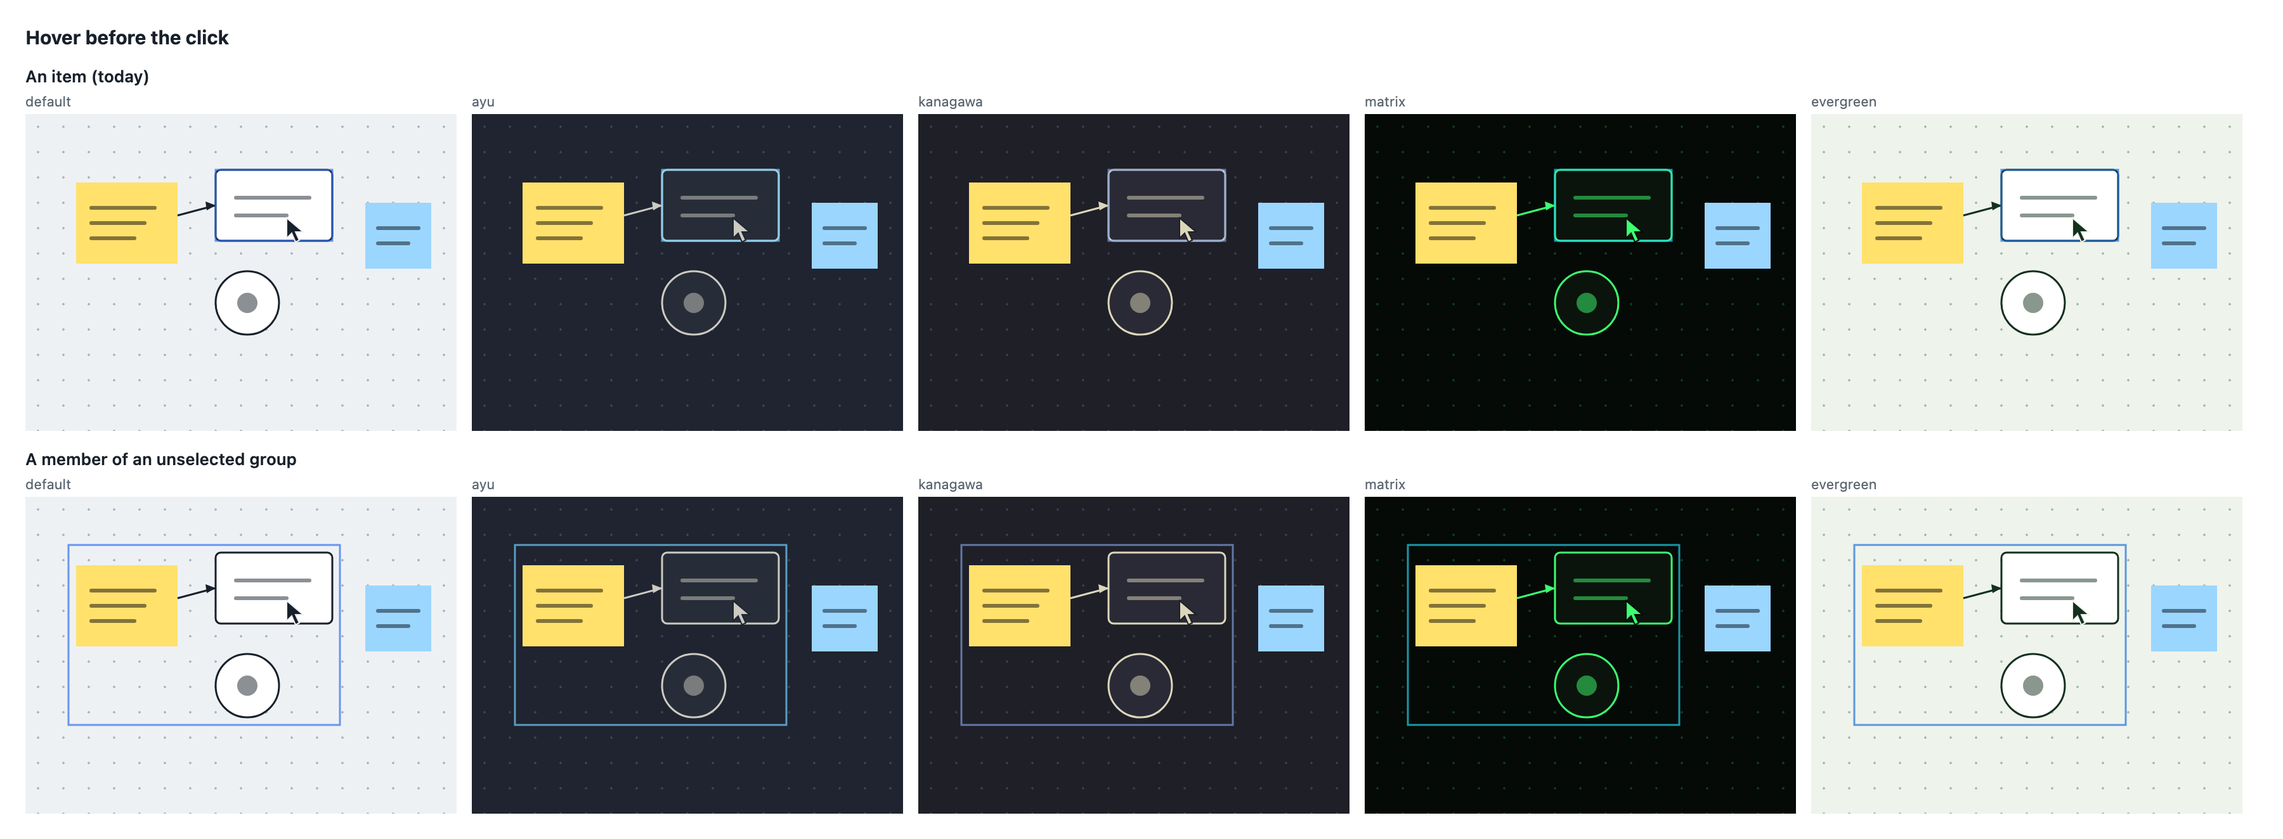
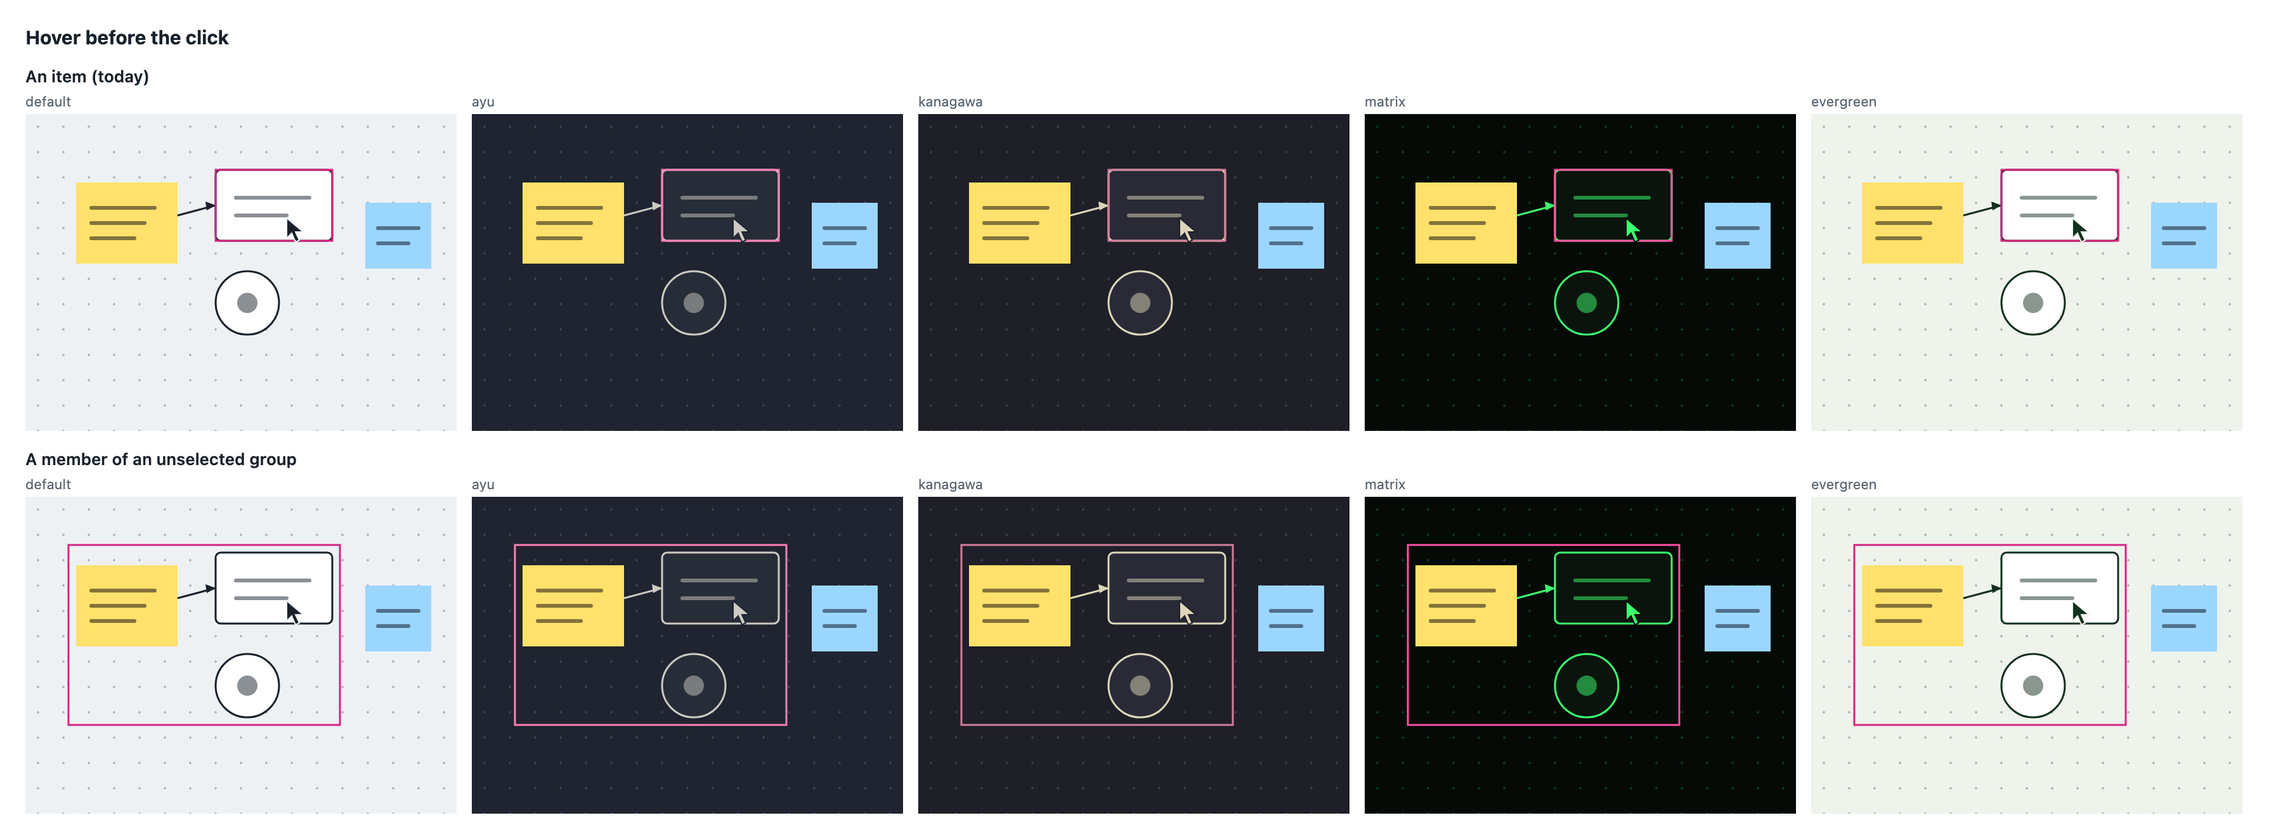
Fix group contrast and dot-vote double-click

diff --git a/test/groups-app.test.ts b/test/groups-app.test.ts
@@ -36,7 +36,7 @@ afterEach(() => browser.uninstall());
 function harness(store = new Store(new Y.Doc())) {
   const app = Object.create(BoardApp.prototype) as Harness;
   const hit = vi.fn<(...args: unknown[]) => Obj | undefined>(() => store.get('a'));
-  const flow = { handleClick: vi.fn<(o: Obj) => boolean>((_o) => false), isHidden: () => false, isVoting: () => false, activeStep: () => null };
+  const flow = { handleClick: vi.fn<(o: Obj) => boolean>((_o) => false), isHidden: () => false, isVoting: vi.fn<() => boolean>(() => false), activeStep: () => null };
   const svg = browser.document.createElement('svg') as FakeElement & { setPointerCapture: (id: number) => void };
   svg.setPointerCapture = vi.fn<(id: number) => void>();
   const overlay = { anchorsFor: null, selection: [], enteredGroup: null, kanban: null };
@@ -130,6 +130,24 @@ describe('group app commands and scope', () => {
     expect(app.selection).toEqual(['g']);
   });
 
+  it('leaves only the current group when empty canvas is clicked from a nested scope', () => {
+    const store = new Store(new Y.Doc());
+    store.transact(() => {
+      store.create({ id: 'outer', type: 'group', x: 0, y: 0, w: 0, h: 0, rotation: 0, z: 'a1' });
+      store.create({ id: 'inner', type: 'group', x: 0, y: 0, w: 0, h: 0, rotation: 0, z: 'a2', parent: 'outer' });
+      store.create({ ...note('leaf', 'a1', 10), parent: 'inner' });
+    });
+    const { app, hit } = harness(store);
+    app.enterGroup('outer');
+    app.enterGroup('inner');
+    hit.mockReturnValue(undefined);
+    const emptyClick = { clientX: 400, clientY: 400, pointerId: 2, pointerType: 'mouse', button: 0, shiftKey: false, altKey: false, preventDefault() {} };
+    call(app, 'onDown', emptyClick);
+    call(app, 'onUp', emptyClick);
+    expect(app.scope).toBe('outer');
+    expect(app.selection).toEqual(['inner']);
+  });
+
   it('keeps dot-vote clicks on the hit member rather than lifting them to its group', () => {
     const store = new Store(new Y.Doc());
     store.transact(() => group('g', 'a1', ['a', 'b']).forEach((o) => store.create(o)));
@@ -139,6 +157,37 @@ describe('group app commands and scope', () => {
     call(app, 'onDown', { clientX: 10, clientY: 10, pointerId: 1, pointerType: 'mouse', button: 0, shiftKey: false, altKey: false, preventDefault() {} });
     expect(flow.handleClick.mock.calls[0][0]?.id).toBe('a');
     expect(app.selection).toEqual([]);
+  });
+
+  it('does not enter a group on the double-click event after vote clicks', () => {
+    const store = new Store(new Y.Doc());
+    store.transact(() => group('g', 'a1', ['a', 'b']).forEach((o) => store.create(o)));
+    const { app, hit, flow } = harness(store);
+    hit.mockImplementation(() => store.get('a'));
+    flow.isVoting.mockReturnValue(true);
+    flow.handleClick.mockReturnValue(true);
+    const click = { clientX: 10, clientY: 10, pointerId: 1, pointerType: 'mouse', button: 0, shiftKey: false, altKey: false, preventDefault() {} };
+    call(app, 'onDown', click);
+    call(app, 'onDown', click);
+    call(app, 'onDblClick', { clientX: 10, clientY: 10 });
+    expect(flow.handleClick).toHaveBeenCalledTimes(2);
+    expect(flow.handleClick.mock.calls.map(([o]) => o.id)).toEqual(['a', 'a']);
+    expect(app.scope).toBeNull();
+    expect(app.selection).toEqual([]);
+  });
+
+  it('disables ungroup when a non-group is included in the selection', () => {
+    const store = new Store(new Y.Doc());
+    store.transact(() => {
+      group('g', 'a1', ['a', 'b']).forEach((o) => store.create(o));
+      store.create(note('loose', 'a9', 240));
+    });
+    const { app } = harness(store);
+    app.selection = ['g', 'loose'];
+    const before = objects(store);
+    expect(app.canUngroupSelection()).toBe(false);
+    expect(app.ungroupSelection()).toBe(false);
+    expect(objects(store)).toEqual(before);
   });
 
   it('leaves to the nearest parent scope when selecting a sibling outside the entered group', () => {

diff --git a/test/css-colors.test.ts b/test/css-colors.test.ts
@@ -2,6 +2,7 @@ import { readFileSync, readdirSync } from 'node:fs';
 import { join, relative } from 'node:path';
 import { fileURLToPath } from 'node:url';
 import { describe, expect, it } from 'vitest';
+import { THEMES, type Theme } from '../src/themes';
 
 const ROOT = fileURLToPath(new URL('..', import.meta.url));
 
@@ -60,10 +61,65 @@ function scan(file: string): string[] {
   return violations;
 }
 
+type RGB = [number, number, number];
+
+function hexRgb(value: string): RGB {
+  const match = /^#([\da-f]{6})$/i.exec(value);
+  if (!match) throw new Error(`expected a six-digit theme colour, got ${value}`);
+  return [0, 2, 4].map((offset) => Number.parseInt(match[1].slice(offset, offset + 2), 16)) as RGB;
+}
+
+function resolveThemeToken(value: string, theme: Theme): RGB {
+  const match = /^var\((--[\w-]+)\)$/.exec(value);
+  if (!match) throw new Error(`expected a theme variable for a group outline, got ${value}`);
+  return hexRgb(theme.vars[match[1] as keyof Theme['vars']]);
+}
+
+function luminance(rgb: RGB): number {
+  const linear = rgb.map((channel) => {
+    const value = channel / 255;
+    return value <= 0.04045 ? value / 12.92 : ((value + 0.055) / 1.055) ** 2.4;
+  });
+  return 0.2126 * linear[0] + 0.7152 * linear[1] + 0.0722 * linear[2];
+}
+
+function contrastRatio(a: RGB, b: RGB): number {
+  const [lighter, darker] = [luminance(a), luminance(b)].sort((x, y) => y - x);
+  return (lighter + 0.05) / (darker + 0.05);
+}
+
+function colorDistance(a: RGB, b: RGB): number {
+  return Math.hypot(...a.map((channel, i) => channel - b[i]));
+}
+
+function rootToken(name: string): string {
+  const css = stripComments(readFileSync(join(ROOT, 'src/ui/group-ui.css'), 'utf8'));
+  const root = css.match(/:root\s*\{([^}]+)\}/)?.[1];
+  const value = root?.match(new RegExp(`(?:^|\\n)\\s*${name}:\\s*([^;]+);`))?.[1]?.trim();
+  if (!value) throw new Error(`missing ${name} in group UI theme tokens`);
+  return value;
+}
+
 describe('css colours', () => {
   it('uses theme variables instead of literal colours outside the allowlist', () => {
     const files = cssFiles(join(ROOT, 'src'));
     expect(files.length).toBeGreaterThan(0);
     expect(files.flatMap(scan)).toEqual([]);
+  });
+
+  it('keeps group hover and member outlines high-contrast across every theme', () => {
+    const hoverToken = rootToken('--group-hover');
+    const memberToken = rootToken('--group-member-line');
+    for (const theme of THEMES) {
+      const canvas = hexRgb(theme.vars['--canvas']);
+      const paper = hexRgb(theme.vars['--paper']);
+      const wire = hexRgb(theme.vars['--wire']);
+      const hover = resolveThemeToken(hoverToken, theme);
+      const member = resolveThemeToken(memberToken, theme);
+      expect(contrastRatio(hover, canvas), `${theme.id} group hover`).toBeGreaterThanOrEqual(3);
+      expect(contrastRatio(member, canvas), `${theme.id} group members`).toBeGreaterThanOrEqual(3);
+      expect(contrastRatio(member, paper), `${theme.id} group members on paper`).toBeGreaterThanOrEqual(3);
+      expect(colorDistance(hover, wire), `${theme.id} hover differs from selection`).toBeGreaterThan(50);
+    }
   });
 });

diff --git a/src/render.ts b/src/render.ts
@@ -676,7 +676,7 @@ export class Renderer {
       if (o?.type === 'group') {
         const b = this.bounds(o);
         if (b) out += this.groupOutline(b, px, 'var(--group-hover)', 1.5);
-      } else if (o) out += this.outline(o, px(1.5), 0.6);
+      } else if (o) out += this.outline(o, px(1.5), 1, 'var(--group-hover)');
     }
     if (ov.lockedHover) {
       const candidate = get(ov.lockedHover);
@@ -876,21 +876,21 @@ export class Renderer {
       });
       if (hiddenEnd) return '';
       const g = connectorGeom(this.safeGet, safeObj(raw), this.connectorLayout());
-      return g ? `<path d="${g.d}" fill="none" stroke="var(--group-line-soft)" stroke-width="${px(1)}" pointer-events="none"/>` : '';
+      return g ? `<path d="${g.d}" fill="none" stroke="var(--group-member-line)" stroke-width="${px(1)}" pointer-events="none"/>` : '';
     }
     if (isBox(raw) && this.isHidden(raw)) return '';
     if (raw.type === 'group') {
       const b = this.bounds(raw);
-      return b ? `<rect x="${b.x}" y="${b.y}" width="${b.w}" height="${b.h}" fill="none" stroke="var(--group-line-soft)" stroke-width="${px(1)}" pointer-events="none"/>` : '';
+      return b ? `<rect x="${b.x}" y="${b.y}" width="${b.w}" height="${b.h}" fill="none" stroke="var(--group-member-line)" stroke-width="${px(1)}" pointer-events="none"/>` : '';
     }
     const o = safeObj(this.store.placed(raw));
     const c = center(o);
     const deg = ((o.rotation || 0) * 180) / Math.PI;
     if (o.type === 'path') {
       const b = boxBounds(o);
-      return `<rect x="${b.x}" y="${b.y}" width="${b.w}" height="${b.h}" fill="none" stroke="var(--group-line-soft)" stroke-width="${px(1)}" pointer-events="none"/>`;
+      return `<rect x="${b.x}" y="${b.y}" width="${b.w}" height="${b.h}" fill="none" stroke="var(--group-member-line)" stroke-width="${px(1)}" pointer-events="none"/>`;
     }
-    return `<rect x="${o.x}" y="${o.y}" width="${o.w}" height="${o.h}" transform="rotate(${deg} ${c.x} ${c.y})" fill="none" stroke="var(--group-line-soft)" stroke-width="${px(1)}" pointer-events="none"/>`;
+    return `<rect x="${o.x}" y="${o.y}" width="${o.w}" height="${o.h}" transform="rotate(${deg} ${c.x} ${c.y})" fill="none" stroke="var(--group-member-line)" stroke-width="${px(1)}" pointer-events="none"/>`;
   }
 
   private lockBadge(b: Rect, px: (v: number) => number, padded: boolean) {

diff --git a/test/group-render-visual.test.ts b/test/group-render-visual.test.ts
@@ -63,7 +63,7 @@ describe('group renderer overlays', () => {
     renderer.setOverlay({ selection: ['g'] });
     drawOverlay();
     const out = svg();
-    expect(out).toContain('stroke="var(--group-line-soft)"');
+    expect(out).toContain('stroke="var(--group-member-line)"');
     expect(out).toContain('stroke="var(--group-line)"');
     expect(out).toContain('stroke-width="1.5"');
     expect(out).not.toContain('#');
@@ -83,6 +83,13 @@ describe('group renderer overlays', () => {
     expect(dimPath().getAttribute('fill')).toBe('var(--group-dim)');
     expect(dimPath().getAttribute('class')).toBe('group-dim-wash active');
     expect(`${svg()}${dimPath().getAttribute('fill')}`).not.toContain('#');
+  });
+
+  it('uses the same theme-aware hover color for a single item', () => {
+    renderer.setOverlay({ hover: 'a' });
+    drawOverlay();
+    expect(svg()).toContain('stroke="var(--group-hover)"');
+    expect(svg()).not.toContain('#');
   });
 
   it('lifts a lock hover to the outermost locked group and uses the tray badge tokens', () => {

diff --git a/src/app.ts b/src/app.ts
@@ -2127,6 +2127,8 @@ export class BoardApp {
   }
 
   private onDblClick(e: MouseEvent) {
+    // During a dot vote, the two pointer clicks already cast votes; double-click must not also enter a group or edit.
+    if (this.flow.isVoting()) return;
     const p = this.worldOf(e);
     // a double click on a pin must not edit the object underneath or add a text box
     if ((this.tool.kind === 'select' || this.tool.kind === 'comment') && pinAt(this.r.pins, p, this.zoom)) return;

diff --git a/src/ui/group-ui.css b/src/ui/group-ui.css
@@ -1,7 +1,7 @@
 :root {
   --group-line: var(--wire);
-  --group-line-soft: color-mix(in srgb, var(--wire) 45%, transparent);
-  --group-hover: color-mix(in srgb, var(--wire) 70%, transparent);
+  --group-member-line: var(--graphite);
+  --group-hover: var(--guide);
   --group-handle: var(--paper);
   --group-dim: color-mix(in srgb, var(--canvas) 62%, transparent);
   --group-locked: var(--graphite);

diff --git a/docs/groups-visual.md b/docs/groups-visual.md
@@ -19,8 +19,8 @@ Defined once, on the board's root (`.chrome` or `:root`, wherever `--guide` is r
 ```css
 :root {
   --group-line:       var(--wire);                                       /* selected outline, handles' stroke, entered dashes */
-  --group-line-soft:  color-mix(in srgb, var(--wire) 45%, transparent);  /* the members' own outlines inside a selected group */
-  --group-hover:      color-mix(in srgb, var(--wire) 70%, transparent);  /* hover outline of what a click would select */
+  --group-member-line: var(--graphite);                                  /* high-contrast member outlines inside a selected group */
+  --group-hover:      var(--guide);                                      /* hover outline, distinct from the selected wire outline */
   --group-handle:     var(--paper);                                      /* handle fill (today a literal #fff) */
   --group-dim:        color-mix(in srgb, var(--canvas) 62%, transparent);/* the board outside an entered group */
   --group-locked:     var(--graphite);                                   /* hover outline of a locked group */
@@ -30,9 +30,9 @@ Defined once, on the board's root (`.chrome` or `:root`, wherever `--guide` is r
 }
 ```
 
-Contrast of the lines against each theme's canvas (non-text UI needs 3:1; WCAG 1.4.11): `--wire` default 4.0, ayu 9.0, kanagawa 5.9, matrix 11.0, evergreen 4.3; `--graphite` 5.2, 5.2, 6.7, 6.4, 5.2. The chips use the tray pair (10.5 to 15.4:1). The soft member outline (45%) is decoration, not information, and is not held to 3:1.
+Contrast of the group lines against each theme's canvas (non-text UI needs 3:1; WCAG 1.4.11): `--wire` is 4.0 in default, 9.0 in ayu, 5.9 in kanagawa, 11.0 in matrix, and 4.3 in evergreen; `--graphite` is 5.2, 5.2, 6.7, 6.4, and 5.2; `--guide` is 4.2, 6.6, 5.6, 6.6, and 4.2. Member outlines use `--graphite` and group hover uses `--guide`, so both clear 3:1 and hover remains distinct from selection. The chips use the tray pair (10.5 to 15.4:1).
 
-**Not in slice 2: the single-item selection.** `render.ts` draws every selection, handle and hover with the constant `WIRE = '#2F6FED'` and white handles, in every theme. `--wire` is defined in all five themes and equals `#2F6FED` in default, so the group overlay reads `var(--wire)` and `var(--group-handle)` and looks the same as a single item there; in Ayu, Kanagawa, Matrix and Evergreen it follows the theme while single items keep the old blue until the follow-up below. That interim difference is accepted: copying the constant into the group tokens would bake the Matrix problem (a fixed blue on a green board) into the new feature.
+**Not in slice 2: the single-item selection.** `render.ts` still draws a single item's selection outline and handles with the constant `WIRE = '#2F6FED'` and white handles, in every theme. Its hover outline now uses the same theme-aware `--group-hover` token as a group's hover. `--wire` is defined in all five themes and equals `#2F6FED` in default, so the group selection reads `var(--wire)` and `var(--group-handle)` and looks the same as a single-item selection there; in Ayu, Kanagawa, Matrix and Evergreen the group follows the theme while single-item selections keep the old blue until the follow-up below. That interim difference is accepted: copying the constant into the group tokens would bake the Matrix problem (a fixed blue on a green board) into the new feature.
 
 ## 1. Selected: item, several items, group
 
@@ -40,7 +40,7 @@ Contrast of the lines against each theme's canvas (non-text UI needs 3:1; WCAG 1
 
 | | One item (as today) | Several items (as today) | A group (new) |
 |---|---|---|---|
-| Outline | 1.5 px solid `--group-line` round the item | dashed 1 px (5 4) box 6 px out, plus every member outlined 1.5 px solid | **solid 1.5 px** box 6 px out round the derived rectangle, members outlined **1 px in `--group-line-soft`** |
+| Outline | 1.5 px solid `--group-line` round the item | dashed 1 px (5 4) box 6 px out, plus every member outlined 1.5 px solid | **solid 1.5 px** box 6 px out round the derived rectangle, members outlined **1 px in `--group-member-line`** |
 | Handles | 8 squares, 9 px, 2 px radius, fill `--group-handle`, stroke 1.5 px `--group-line`; rotate circle 10 px above | corner and edge squares on the dashed box, no rotate | the same 8 squares and rotate circle on the solid box |
 | Label | none | none | **name chip** at the outline's top-left, 6 px above it: `Group · 3` (the group's `name` once it has one, else "Group" and the member count), tray colours, 11 px, 600 weight, 20 px high, no radius |
 
@@ -52,7 +52,7 @@ On touch (`pointer: coarse`) handles are 16 px (as `render.ts` already does for 
 
 `hover.png`.
 
-Hovering any member outlines the **whole group** a click would select: 1.5 px solid `--group-hover` round the derived rectangle, 6 px out, and nothing round the member itself. A single item (today) keeps its 1.5 px outline at the same 70% (`render.ts` uses 0.6; use `--group-hover` for both so they match). No chip on hover: it would flash as the pointer crosses a board, and the outline is enough to say what the click picks. While a dot vote runs the hover goes back to the single item, because a click votes for the item ([groups.md](groups.md), Selecting).
+Hovering any member outlines the **whole group** a click would select: 1.5 px solid `--group-hover` (`--guide`) round the derived rectangle, 6 px out, and nothing round the member itself. The guide color has at least 3:1 contrast in every theme and differs from the solid `--group-line` used for selection, so hover cannot be mistaken for selection. A single item uses the same theme-aware hover color. No chip on hover: it would flash as the pointer crosses a board, and the outline is enough to say what the click picks. While a dot vote runs the hover goes back to the single item, because a click votes for the item ([groups.md](groups.md), Selecting).
 
 ## 3. Inside a group
 
@@ -93,7 +93,7 @@ Locked things are quiet in Tabula today: nothing marks them at rest, and the bad
 | Where | Change |
 |---|---|
 | `src/ui/group-ui.css` (new) | the tokens above; `.group-chip`, `.group-done` (the Done chip as an HTML button over the board, positioned from the bounds like the quick bar); 44 px `.group-done` under `(pointer: coarse)` |
-| `src/render.ts` | `WIRE` to `'var(--wire, #2F6FED)'` for outlines and handles; handle fill `var(--group-handle, #fff)`; group selection: solid box plus members at `--group-line-soft` plus chip; hover: `--group-hover` on the group's rectangle; entered: dim wash between outside and members plus dashed bounds; locked hover: `--group-locked` and the tray-coloured badge |
+| `src/render.ts` | `WIRE` to `'var(--wire, #2F6FED)'` for outlines and handles; handle fill `var(--group-handle, #fff)`; group selection: solid box plus members at `--group-member-line` plus chip; hover: `--group-hover` on the group's rectangle; entered: dim wash between outside and members plus dashed bounds; locked hover: `--group-locked` and the tray-coloured badge |
 | `src/ui/quickbar.ts`, `src/ui/icons.ts` | Group and Ungroup buttons and the two icons |
 | `test/css-colors.test.ts` | no new allowlist entries: every colour here is a variable (the SVG strings in `render.ts` are outside that test, so add a small test that the group overlay contains no `#` literal) |
 | `scripts/visual-check.mjs` | states `group-selected`, `group-hover`, `group-entered`, `group-locked` (and the touch bar at 360 and 390), across the five themes |

diff --git a/docs/groups.md b/docs/groups.md
@@ -86,7 +86,8 @@ State kept by the client, not synced: `scope`, the group the person has entered 
 - `pick(o, scope)`: climb from the object through its group ancestors until the next step up would be the scope (or the top). That ancestor is what a click selects.
 - **Click** an item: select `pick(item)`. Shift-click toggles it; items from other levels are lifted to the scope's level so one selection never mixes levels.
 - **Double-click** a member of a group that is not the scope: enter it (`scope` becomes that group) and select the member that was clicked. A second double-click on an item that is already a direct child of the scope does what double-click does today (edit text, enter a frame name). A double-click on empty space inside the scope's rectangle does nothing new.
-- **Leave** with `Esc` (selects the group just left and sets `scope` to its parent group), with a click on empty canvas, or by selecting something outside. A nested scope leaves one level at a time.
+- During a **dot vote**, double-clicking does not enter a group or edit an item; its two pointer clicks each use the normal single-click vote behavior.
+- **Leave** with `Esc` (selects the group just left and sets `scope` to its parent group), with a click on empty canvas, or by selecting something outside. A nested scope leaves one level at a time, so an empty-canvas click selects the group just left and returns to its parent scope.
 - **Marquee** selects the items at the scope's level that touch the rectangle (a group when any visible member does), as the marquee does today for single objects.
 - **Select all** (`Ctrl+A`) selects the top-level items (or the scope's children), skipping locked ones as now.
 - Selection after undo, redo, paste or an AI apply sets `scope` to `null` and selects the top-level ancestors of what changed.
@@ -110,7 +111,7 @@ In one transaction:
 
 The members were in other places in the paint order. Those that were below an outside object that lies between members now paint above it (the group moves up to its top member), as in the decisions list.
 
-**Ungroup** (`Shift+Ctrl+G`, **Ungroup** in the same places): for each selected group, in one transaction, give its members the group's `parent` and fresh `z` keys that put them exactly where the group was, in their order (`generateNKeysBetween(group.z, next sibling above, n)`), delete the group object, and select the members. Ungrouping a selection of several groups does all of them in one step. Ungroup on something that is not a group is disabled.
+**Ungroup** (`Shift+Ctrl+G`, **Ungroup** in the same places): for each selected group, in one transaction, give its members the group's `parent` and fresh `z` keys that put them exactly where the group was, in their order (`generateNKeysBetween(group.z, next sibling above, n)`), delete the group object, and select the members. Ungrouping a selection of several groups does all of them in one step. Ungroup is available only when every selected item is a group; a selection containing a group and a non-group is disabled.
 
 Ungrouping only one level: members that are themselves groups stay groups.
 

diff --git a/changelog.d/tab-254-255.md b/changelog.d/tab-254-255.md
@@ -1,0 +1,5 @@
+section: Fixed
+audience: user
+
+- Group hover and member outlines stay clearly visible across every theme, and hover looks different from selection.
+- Double-clicking a group member during a dot vote no longer enters the group; each click still casts its normal vote.
